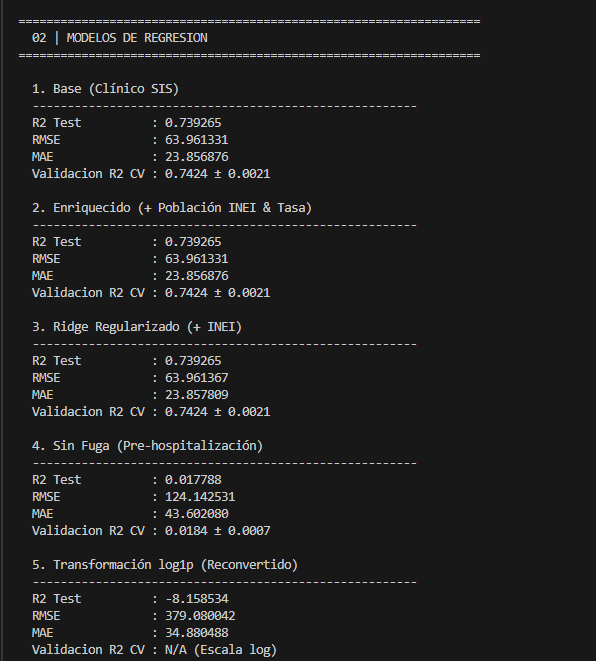
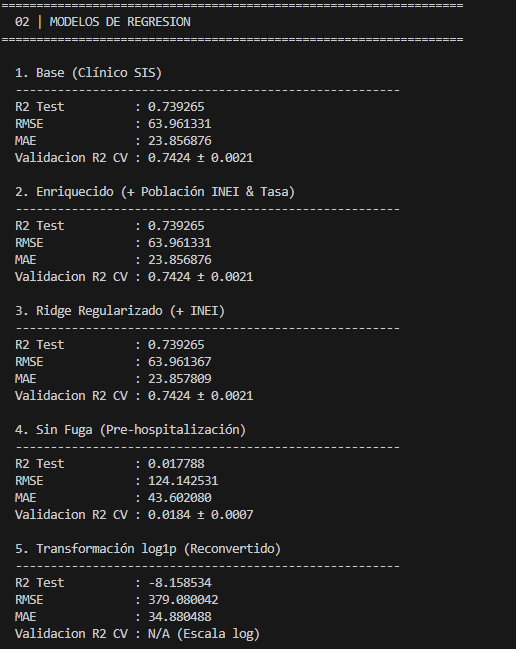
Incorpora siete capturas independientes enviadas por el usuario

Changed region(s): [[0.0, 0.0, 0.8062, 1.0]]

diff --git a/informe_mineria_datos.html b/informe_mineria_datos.html
@@ -174,10 +174,16 @@
         <figure><img src="capturas/estadisticos.png" style="max-width:100%; border:1px solid #ddd;" alt="Paso 6: resumen de conteo, tendencia central, dispersión y forma de las distribuciones del conjunto procesado."><figcaption>Paso 6: resumen de conteo, tendencia central, dispersión y forma de las distribuciones del conjunto procesado.</figcaption></figure>
     </div>
     <div class="image-placeholder" style="padding: 10px; background-color: transparent; border: none;">
-        <figure><img src="salidas/histogramas_distribucion.png" style="max-width:100%; border:1px solid #ddd;" alt="Paso 6: histogramas de variables cuantitativas; la concentración de valores bajos y la cola del costo muestran una distribución asimétrica."><figcaption>Paso 6: histogramas de variables cuantitativas; la concentración de valores bajos y la cola del costo muestran una distribución asimétrica.</figcaption></figure>
+        <!-- INICIO CAPTURA INDIVIDUAL -->
+<figure><img src="capturas/terminal_estadisticos.png" alt="Captura de consola: Estadísticos descriptivos" style="max-width:100%;height:auto;"><figcaption>Captura independiente: Estadísticos descriptivos.</figcaption></figure>
+<!-- FIN CAPTURA INDIVIDUAL -->
+<figure><img src="salidas/histogramas_distribucion.png" style="max-width:100%; border:1px solid #ddd;" alt="Paso 6: histogramas de variables cuantitativas; la concentración de valores bajos y la cola del costo muestran una distribución asimétrica."><figcaption>Paso 6: histogramas de variables cuantitativas; la concentración de valores bajos y la cola del costo muestran una distribución asimétrica.</figcaption></figure>
     </div>
     <div class="image-placeholder" style="padding: 10px; background-color: transparent; border: none;">
-        <figure><img src="salidas/boxplots_diagnosticos.png" style="max-width:100%; border:1px solid #ddd;" alt="Paso 6: diagramas de caja de costo y edad; muestran mediana, dispersión y observaciones alejadas del rango central."><figcaption>Paso 6: diagramas de caja de costo y edad; muestran mediana, dispersión y observaciones alejadas del rango central.</figcaption></figure>
+        <!-- INICIO CAPTURA INDIVIDUAL -->
+<figure><img src="capturas/terminal_costo_edad.png" alt="Captura de consola: Resumen de costo y edad" style="max-width:100%;height:auto;"><figcaption>Captura independiente: Resumen de costo y edad.</figcaption></figure>
+<!-- FIN CAPTURA INDIVIDUAL -->
+<figure><img src="salidas/boxplots_diagnosticos.png" style="max-width:100%; border:1px solid #ddd;" alt="Paso 6: diagramas de caja de costo y edad; muestran mediana, dispersión y observaciones alejadas del rango central."><figcaption>Paso 6: diagramas de caja de costo y edad; muestran mediana, dispersión y observaciones alejadas del rango central.</figcaption></figure>
     </div>
     <div class="image-placeholder" style="padding: 10px; background-color: transparent; border: none;">
         <figure><img src="salidas/matriz_correlacion_heatmap.png" style="max-width:100%; border:1px solid #ddd;" alt="Paso 6: correlaciones lineales entre variables numéricas; el color y los coeficientes indican dirección y magnitud, sin demostrar causalidad."><figcaption>Paso 6: correlaciones lineales entre variables numéricas; el color y los coeficientes indican dirección y magnitud, sin demostrar causalidad.</figcaption></figure>
@@ -198,9 +204,18 @@
 
 <!-- INICIO ADICION ASOCIACION -->
 <h3>7.1. Resultados gráficos de asociación y sucesión ordenada</h3>
+<!-- INICIO CAPTURA INDIVIDUAL -->
+<figure><img src="capturas/terminal_reglas.png" alt="Captura de consola: Reglas ordenadas por lift" style="max-width:100%;height:auto;"><figcaption>Captura independiente: Reglas ordenadas por lift.</figcaption></figure>
+<!-- FIN CAPTURA INDIVIDUAL -->
 <figure><img src="salidas/asociacion_top_lift.png" alt="Ranking de reglas según lift; R1 a R10 corresponden al CSV de reglas." style="max-width:100%;height:auto;"><figcaption>Ranking de reglas según lift; R1 a R10 corresponden al CSV de reglas.</figcaption></figure>
+<!-- INICIO CAPTURA INDIVIDUAL -->
+<figure><img src="capturas/terminal_soporte_confianza.png" alt="Captura de consola: Soporte, confianza y lift" style="max-width:100%;height:auto;"><figcaption>Captura independiente: Soporte, confianza y lift.</figcaption></figure>
+<!-- FIN CAPTURA INDIVIDUAL -->
 <figure><img src="salidas/asociacion_soporte_confianza.png" alt="Relación entre soporte y confianza; el color representa el lift." style="max-width:100%;height:auto;"><figcaption>Relación entre soporte y confianza; el color representa el lift.</figcaption></figure>
 <figure><img src="salidas/sucesion_reglas_metricas.png" alt="Sucesión de métricas en el orden de las reglas, sin significado temporal." style="max-width:100%;height:auto;"><figcaption>Sucesión de métricas en el orden de las reglas, sin significado temporal.</figcaption></figure>
+<!-- INICIO MEJOR REGLA -->
+<figure><img src="capturas/terminal_mejor.png" alt="Captura independiente de la regla con mayor lift" style="max-width:100%;height:auto;"><figcaption>Regla con mayor lift: antecedentes, consecuentes, soporte 3,883%, confianza 40,865% y lift 4,641649.</figcaption></figure>
+<!-- FIN MEJOR REGLA -->
 <p>La primera regla presenta soporte de <strong>3.88%</strong>, confianza de <strong>40.87%</strong> y lift de <strong>4.642</strong>. El soporte mide la proporción de registros que cumplen conjuntamente antecedente y consecuente; la confianza mide la proporción con el consecuente entre quienes cumplen el antecedente. El lift compara esa confianza con la frecuencia general del consecuente. Un lift alto no implica causalidad ni garantiza que la mayoría de los pacientes presente el patrón. Las reglas inversas pueden compartir soporte y lift, pero tener distinta confianza.</p>
 <p>La sucesión representa un ranking descriptivo. No se analizó una secuencia de eventos clínicos: para estudiar progresión temporal se requieren fechas y eventos ordenados por paciente. Estos gráficos muestran únicamente las diez reglas exportadas, no todas las reglas descubiertas.</p>
 <!-- FIN ADICION ASOCIACION -->
@@ -227,6 +242,9 @@
 <figure><img src="capturas/terminal_modelos.png" alt="Captura de consola: Comparación de modelos" style="max-width:100%;height:auto;"><figcaption>Captura independiente: Comparación de modelos.</figcaption></figure>
 <!-- FIN CAPTURA INDIVIDUAL -->
 <figure><img src="salidas/regresion_comparativa_metricas.png" alt="Comparación de R², RMSE y MAE de los cinco modelos sobre la partición de prueba." style="max-width:100%;height:auto;"><figcaption>Comparación de R², RMSE y MAE de los cinco modelos sobre la partición de prueba.</figcaption></figure>
+<!-- INICIO CAPTURA INDIVIDUAL -->
+<figure><img src="capturas/terminal_validacion.png" alt="Captura de consola: Validación cruzada" style="max-width:100%;height:auto;"><figcaption>Captura independiente: Validación cruzada.</figcaption></figure>
+<!-- FIN CAPTURA INDIVIDUAL -->
 <figure><img src="salidas/regresion_validacion_cruzada.png" alt="Media y desviación estándar de R² en validación cruzada de cinco pliegues; no son intervalos de confianza." style="max-width:100%;height:auto;"><figcaption>Media y desviación estándar de R² en validación cruzada de cinco pliegues; no son intervalos de confianza.</figcaption></figure>
 <p>El modelo enriquecido alcanza R² = <strong>0.7393</strong>, RMSE = <strong>63.96 soles</strong> y MAE = <strong>23.86 soles</strong>. El R² resume la fracción de variabilidad explicada en prueba; el MAE representa el error absoluto medio, mientras que el RMSE penaliza más los errores grandes. La distancia entre RMSE y MAE es compatible con errores de mayor magnitud en una parte de los casos.</p>
 <p>Al excluir días de hospitalización y cantidad de atenciones, el R² baja a <strong>0.0178</strong> y el RMSE sube a <strong>124.14 soles</strong>. Esta configuración explica poco del gasto con los predictores disponibles antes de la atención; no demuestra que las comorbilidades carezcan de efecto clínico. Base, enriquecido y Ridge presentan resultados prácticamente iguales. La información INEI no aporta una mejora medible en esta comparación individual.</p>

diff --git a/actualizar_terminales.py b/actualizar_terminales.py
@@ -24,7 +24,7 @@ PUNTOS = {
 def main():
     ruta = BASE / 'informe_mineria_datos.html'
     html = ruta.read_text(encoding='utf-8')
-    for marcador in ['TERMINAL CSV', 'CAPTURA TERMINAL', 'RESUMEN CSV NUEVO', 'CAPTURA INDIVIDUAL']:
+    for marcador in ['TERMINAL CSV', 'CAPTURA TERMINAL', 'RESUMEN CSV NUEVO', 'CAPTURA INDIVIDUAL', 'MEJOR REGLA']:
         html = re.sub(f'<!-- INICIO {marcador} -->.*?<!-- FIN {marcador} -->\\n?', '', html, flags=re.S)
     presentes, faltantes = [], []
     def insertar(match):
@@ -44,9 +44,20 @@ def main():
                 f'<figcaption>Captura independiente: {escape(descripcion)}.</figcaption></figure>\n'
                 '<!-- FIN CAPTURA INDIVIDUAL -->\n' + figura)
     html = re.sub(r'<figure>.*?</figure>', insertar, html, flags=re.S)
+    mejor = BASE / 'capturas/terminal_mejor.png'
+    if mejor.is_file():
+        evidencia = ('<!-- INICIO MEJOR REGLA -->\n'
+                     '<figure><img src="capturas/terminal_mejor.png" alt="Captura independiente de la regla con mayor lift" style="max-width:100%;height:auto;">'
+                     '<figcaption>Regla con mayor lift: antecedentes, consecuentes, soporte 3,883%, confianza 40,865% y lift 4,641649.</figcaption></figure>\n'
+                     '<!-- FIN MEJOR REGLA -->\n')
+        assert '<p>La primera regla presenta' in html
+        html = html.replace('<p>La primera regla presenta', evidencia + '<p>La primera regla presenta', 1)
     assert len(presentes) + len(faltantes) == 9
+    assert all((BASE / src).is_file() for src in re.findall(r'<img[^>]+src="([^"]+)"', html))
     ruta.write_text(html, encoding='utf-8')
     print(f'Capturas independientes incorporadas: {len(presentes)}/9')
+    if mejor.is_file():
+        print('Además, incorporada la captura independiente de la regla con mayor lift.')
     for punto, captura in faltantes:
         print(f'PENDIENTE: python resumen_terminal.py --seccion {punto} -> guardar captura en {captura}')
 

diff --git a/CAPTURAS_TERMINAL.md b/CAPTURAS_TERMINAL.md
@@ -14,7 +14,9 @@ con el nombre indicado. Los comandos leen los CSV; no entrenan modelos.
 8. `python resumen_terminal.py --seccion residuos` → `capturas/terminal_residuos.png`
 9. `python resumen_terminal.py --seccion coeficientes` → `capturas/terminal_coeficientes.png`
 
-El punto 6 ya tiene la captura independiente aportada por el usuario.
+Los puntos 1, 2, 3, 4, 6 y 7 ya tienen capturas independientes aportadas por el usuario.
+También se incluye `terminal_mejor.png` junto a la interpretación de la regla con mayor lift.
+Faltan las capturas de sucesión, residuos y coeficientes (puntos 5, 8 y 9).
 Los puntos 8 y 9 requieren los CSV nuevos `diagnostico_residuos.csv` y
 `coeficientes_regresion.csv`, exportados al ejecutar el paso 8 de `completo.py`
 actualizado. No se deben inventar estos valores a partir del PNG.
